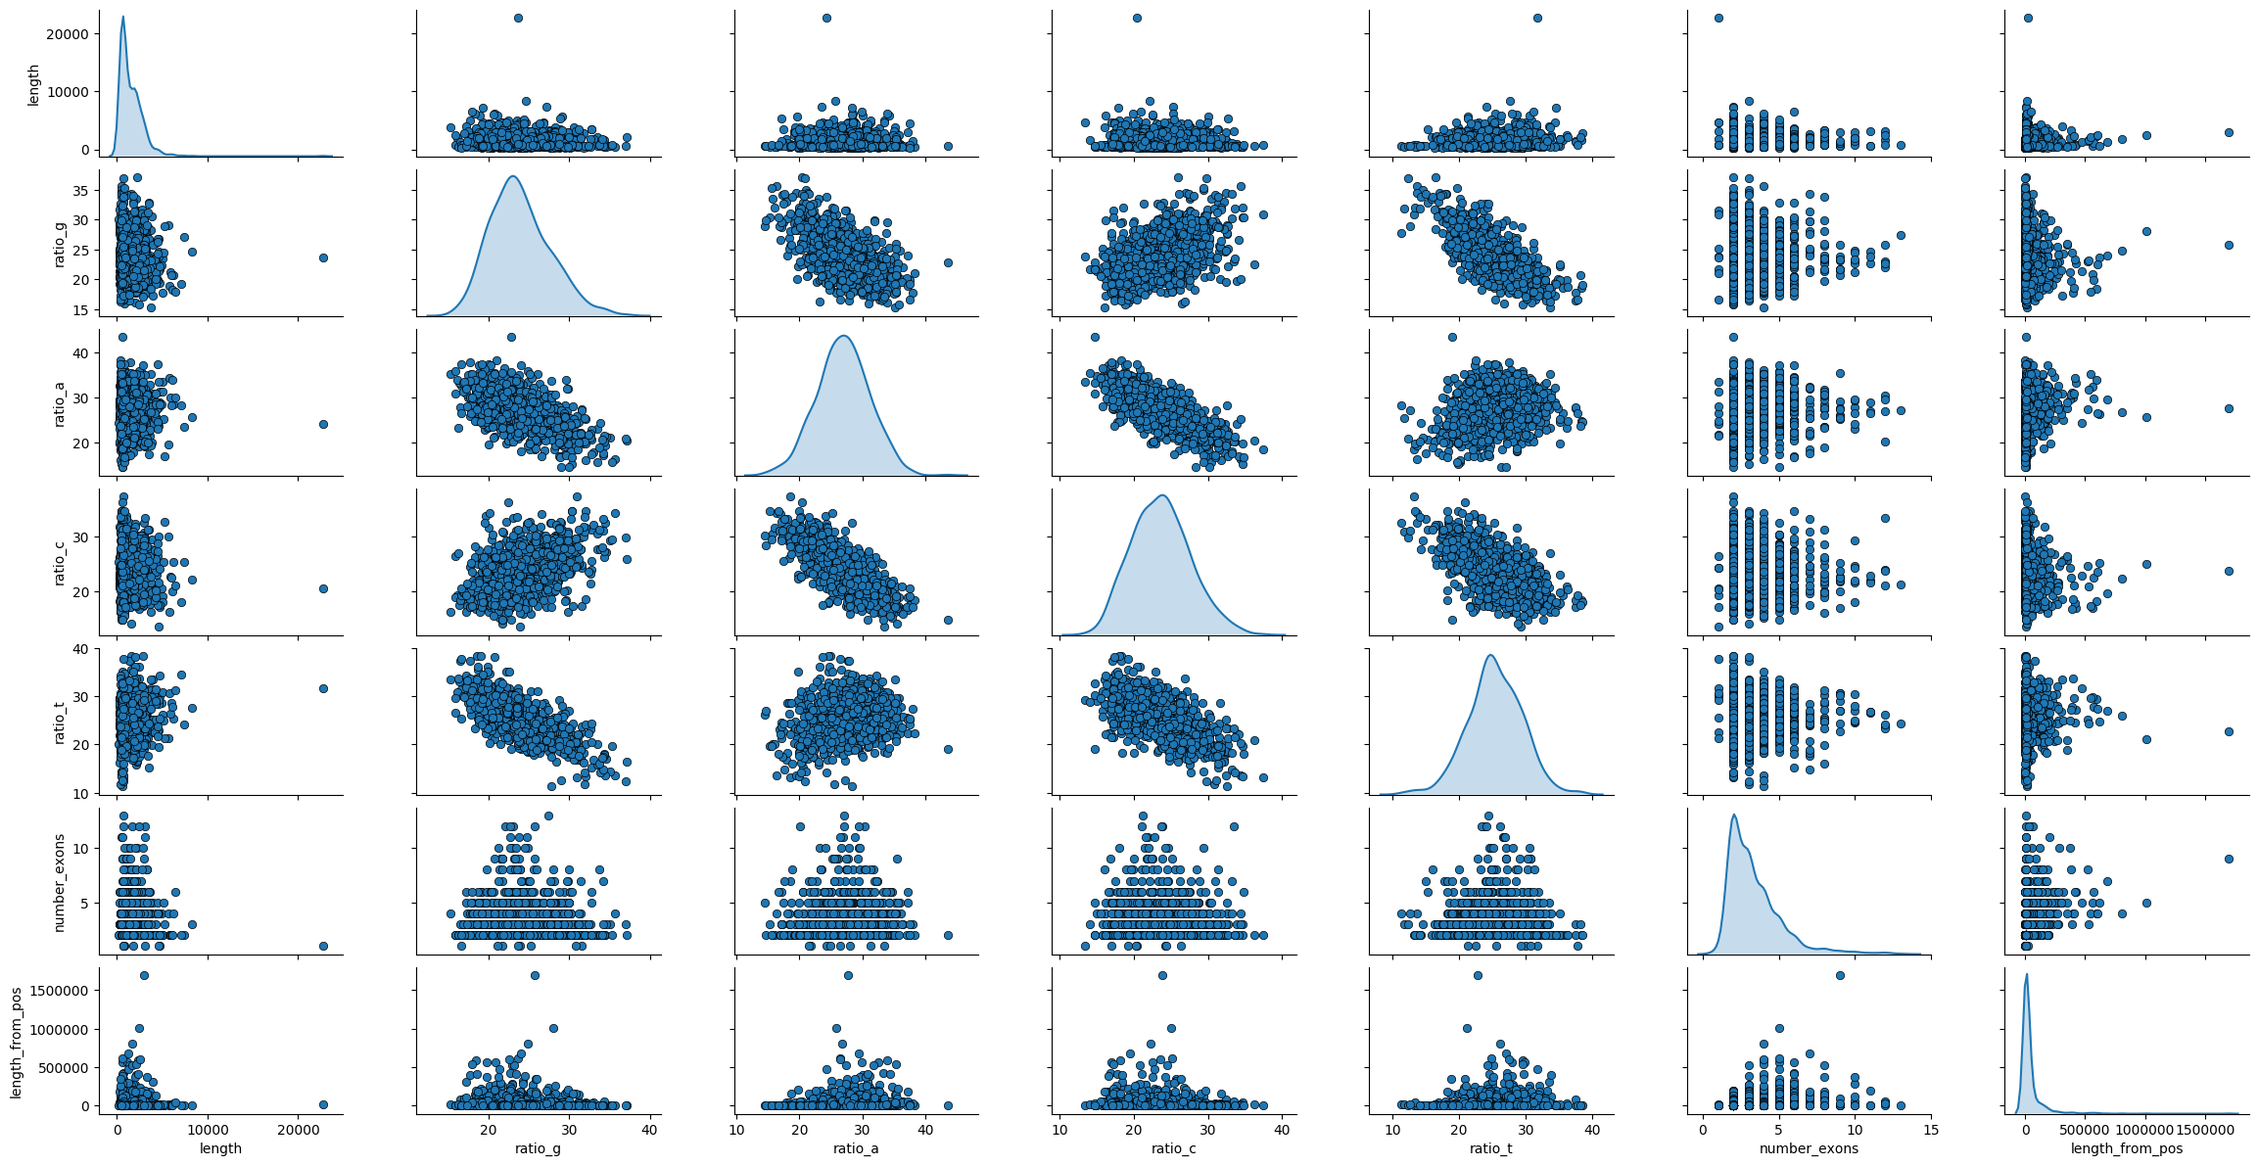
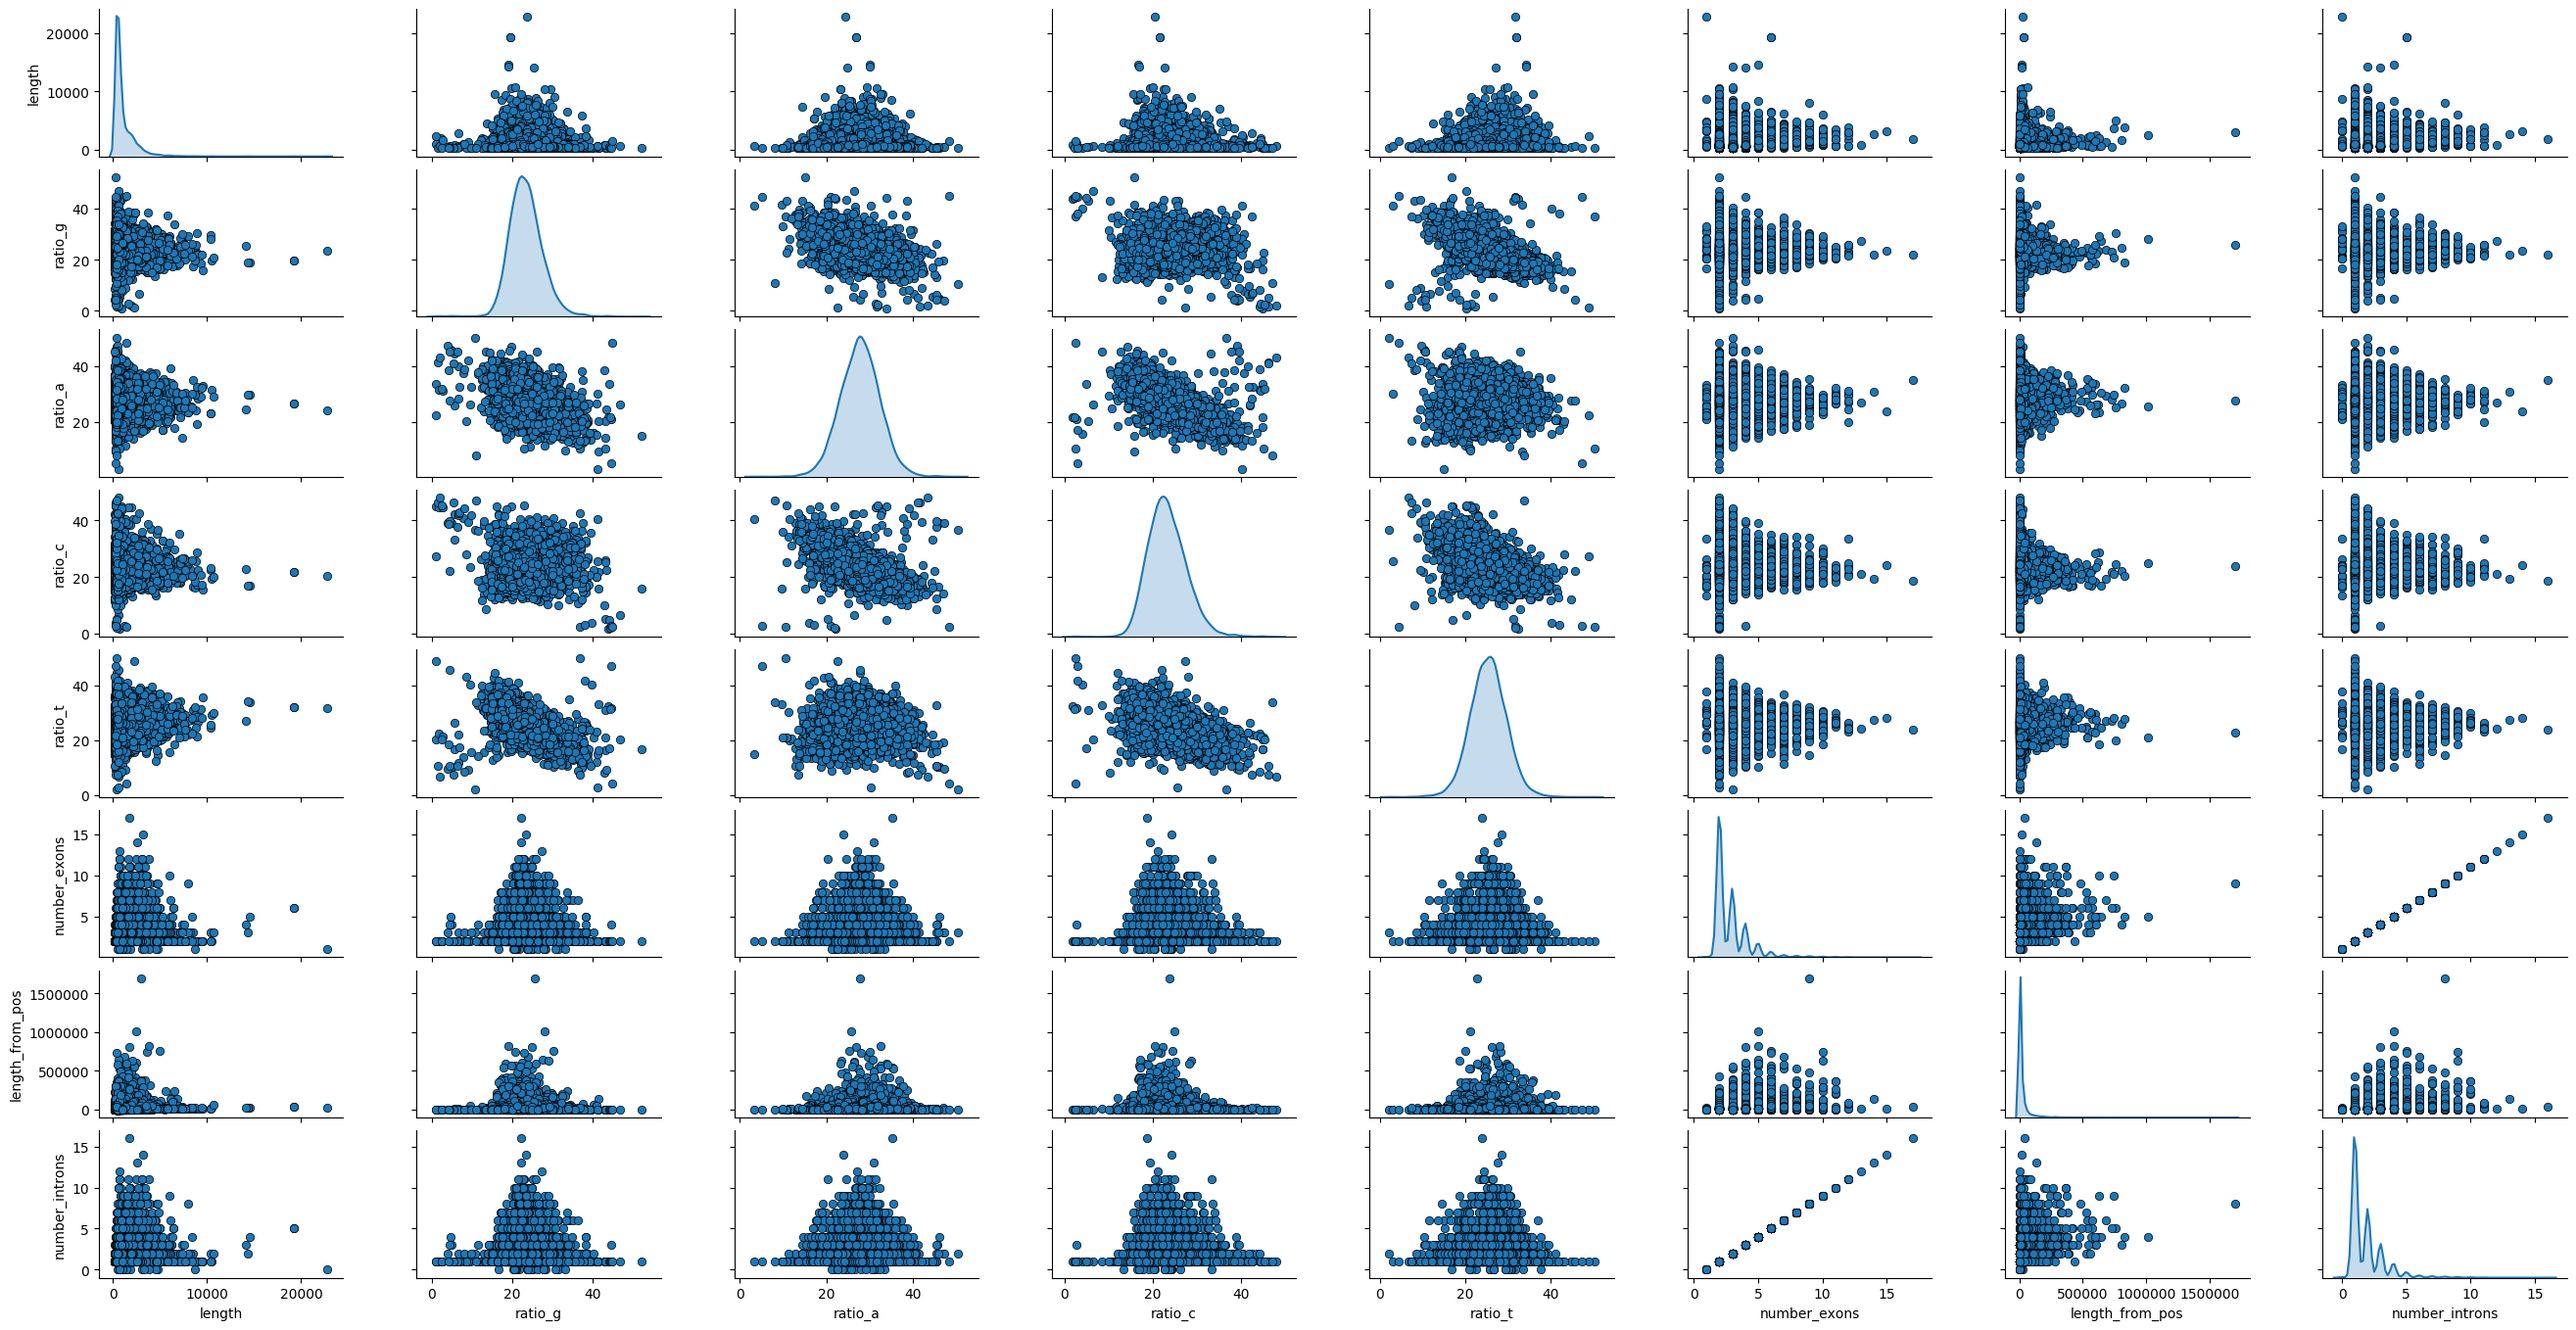
added number introns

diff --git a/fasta.py b/fasta.py
@@ -10,12 +10,14 @@ import pandas as pd
 import seaborn as sns
 from pybedtools import BedTool
 from scipy.spatial.distance import cdist 
+from BCBio.GFF import GFFExaminer
+from BCBio import GFF
 
 
 def calc_number_introns(start_pos, end_pos, list_of_exons_coordinates):
-   number_introns = 0
    seq_starting_with_exon = False
    seq_ending_with_exon = False
+   num_exons = len(list_of_exons_coordinates)
    for exon in list_of_exons_coordinates:
       exon_start_pos = exon[0]
       exon_end_pos = exon[1]
@@ -23,21 +25,46 @@ def calc_number_introns(start_pos, end_pos, list_of_exons_coordinates):
          seq_starting_with_exon = True
       if exon_end_pos == end_pos:
          seq_ending_with_exon = True 
-   return number_introns
+
+   if seq_starting_with_exon and seq_ending_with_exon:
+      return num_exons - 1
+   elif (seq_starting_with_exon and not seq_ending_with_exon) or (seq_ending_with_exon and not seq_starting_with_exon):
+      return num_exons
+   else:
+      return num_exons + 1
 
 def load_data():
    # https://lncipedia.org/download
-   data_dict = {'length': [], 'ratio_g': [], 'ratio_t': [], 'ratio_c': [], 'ratio_a': [], 'number_exons': [], 'chromosom': [], 'start_pos': [], 'end_pos': [], 'length_from_pos': []}
+   data_dict = {'length': [], 'ratio_g': [], 'ratio_t': [], 'ratio_c': [], 'ratio_a': [], 'number_exons': [], 'chromosom': [], 'start_pos': [], 'end_pos': [], 'length_from_pos': [], 'number_introns': []}
    fasta_data = SeqIO.parse("data/lncipedia_5_2.fasta", "fasta")
    bed_raw_data = BedTool('data/lncipedia.bed')
-   annotation_data = None
+   examiner = GFFExaminer()
+   in_handle = open('data/lncipedia_5_2_hg38.gff')
+   annotation_data = {}
+   for i, rec in enumerate(GFF.parse(in_handle)):
+      # chromosom e.g. chr1
+      for feature in rec.features:
+         # lncRNA eg. LNC1725
+         if not feature.type == 'lnc_RNA':
+            break
+
+         exon_locations = []
+         lnc_id = feature.id
+         for sub_feature in feature.sub_features:
+            if sub_feature.type == 'exon':
+               exon = (sub_feature.location.start, sub_feature.location.end)
+               exon_locations.append(exon)
+
+         annotation_data[lnc_id] = exon_locations
+      
+   in_handle.close()
    bed_data = {}
    
    for record in bed_raw_data:
       bed_data[record.name] = {
          'number_exons': int(record.fields[9]),
          'chromosom': record.fields[0],
-         'start_pos': int(record.fields[1]),
+         'start_pos': int(record.fields[1]), # im bed -1 im vgl zu gff und online
          'end_pos': int(record.fields[2])
       }
 
@@ -46,7 +73,12 @@ def load_data():
       data_dict['length'].append(length)
       for bed_feature in ['number_exons', 'chromosom', 'start_pos', 'end_pos']:
          data_dict[bed_feature].append(bed_data[record.name][bed_feature])
-      data_dict['length_from_pos'].append(bed_data[record.name]['end_pos'] - bed_data[record.name]['start_pos'])
+
+      end_pos = bed_data[record.name]['end_pos']
+      start_pos = bed_data[record.name]['start_pos']
+      exon_locations = annotation_data[record.id]
+      data_dict['length_from_pos'].append(end_pos - start_pos)
+      data_dict['number_introns'].append(calc_number_introns(start_pos, end_pos, exon_locations))
 
       count_g = 0
       count_a = 0
@@ -120,14 +152,14 @@ def run_dbscan(df, features, eps):
    plt.close()
 
 def run_all_clustering(df_all, features):
-   k_means_number_clusters = 4
+   k_means_number_clusters = 8
    for i, feature1 in enumerate(features):
       df = df_all[[feature1]]
       run_kmeans(df, [feature1], k_means_number_clusters)
 
       for feature2 in features[i+1:]:
          df = df_all[[feature1, feature2]]
-         #df = df.apply(lambda x: (x-x.mean()) / x.std(), axis=0)
+         df = df.apply(lambda x: (x-x.mean()) / x.std(), axis=0)
          run_kmeans(df, [feature1, feature2], k_means_number_clusters)
          run_dbscan(df, [feature1, feature2])
 
@@ -211,16 +243,15 @@ def find_best_number_clusters(df):
 
 def find_best_eps(df):
    eps = [0.001, 0.1, 0.5, 1, 2, 4, 5]
-   df = df.apply(lambda x: (x-x.mean()) / x.std(), axis=0)
    for ep in eps:
       n_clusters_, n_noise_, labels, core_samples_mask = fit_dbscan(df, ep)
       silhouette_score = metrics.silhouette_score(df, labels)
       print('%s: %s' % (ep, silhouette_score))
 
 df = load_data()
-features = ['length', 'ratio_g', 'ratio_a', 'ratio_c', 'ratio_t', 'number_exons', 'length_from_pos']
+features = ['length', 'ratio_g', 'ratio_a', 'ratio_c', 'ratio_t', 'number_exons', 'length_from_pos', 'number_introns']
 #pair(df, features)
-#run_all_clustering(df, features)
+run_all_clustering(df, features)
 #run_dbscan(df[['length', 'number_exons']], ['length', 'number_exons'], 40)
 #run_kmeans(df, ['length','number_exons'], 8)
 
